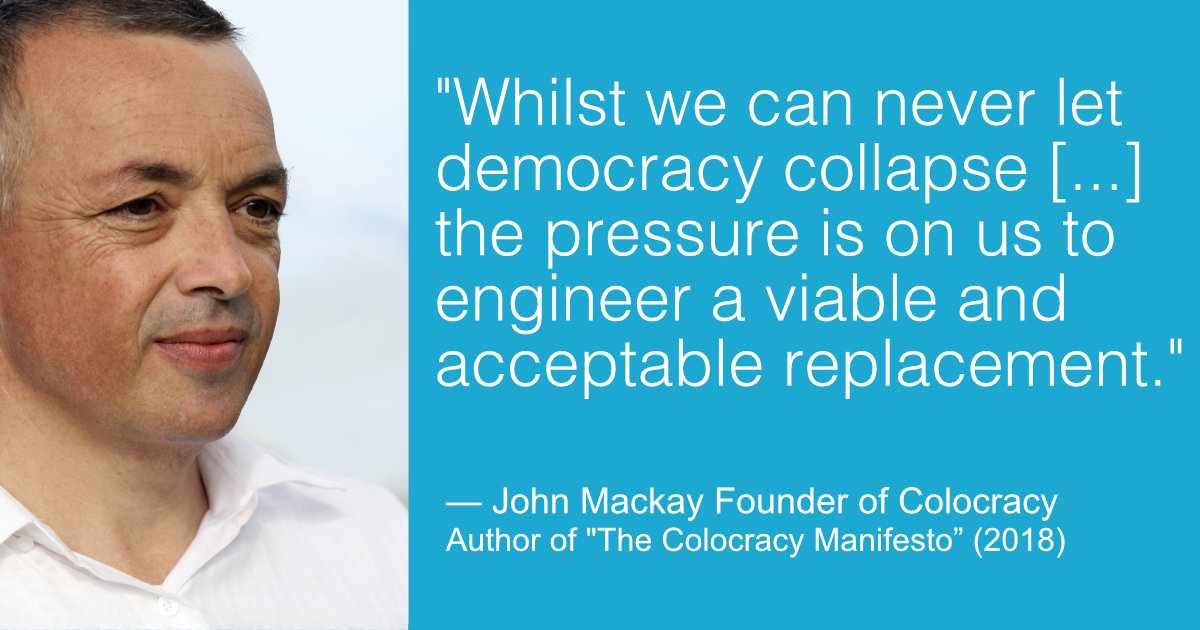
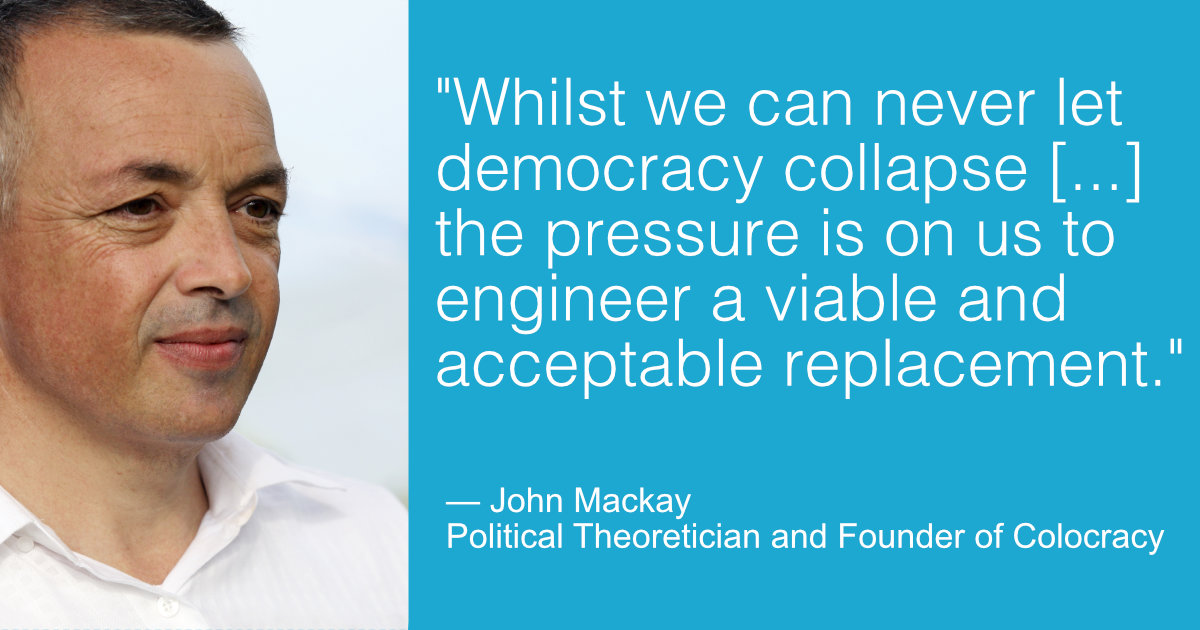
Structured Data Testing Tool Debug

Changed region(s): [[0.37, 0.754, 0.9867, 0.8746]]

diff --git a/profiles/mackay-john/index.html b/profiles/mackay-john/index.html
@@ -13,14 +13,14 @@
   <link rel="stylesheet" href="https://maxcdn.bootstrapcdn.com/bootstrap/4.0.0/css/bootstrap.min.css" integrity="sha384-Gn5384xqQ1aoWXA+058RXPxPg6fy4IWvTNh0E263XmFcJlSAwiGgFAW/dAiS6JXm" crossorigin="anonymous">
 
   <title>Profile: John Mackay</title>
-  <meta name="description" content="John Mackay is the founder and principle architect of the system of colocracy." />
-  <meta name="keywords" content="john mackay,author,founder,colocracy" />
+  <meta name="description" content="Political theorist and founder of colocracy. Author of &quot;For All OF Us: The Colocracy Manifesto.&quot;" />
+  <meta name="keywords" content="john mackay,theorist,author,founder,colocracy" />
 
   <!-- Twitter Card data -->
   <meta name="twitter:card" content="summary">
   <meta name="twitter:site" content="@johnmackay61">
   <meta name="twitter:title" content="John Mackay">
-  <meta name="twitter:description" content="Founder and principle architect of colocracy. Author of 'For All OF Us: The Colocracy Manifesto.'">
+  <meta name="twitter:description" content="Political theorist and founder of colocracy. Author of &quot;For All OF Us: The Colocracy Manifesto.&quot;">
   <meta name="twitter:image" content="https://colocracy.github.io/profiles/images/og-generic-square.jpg">
 
   <!-- Open Graph data -->
@@ -43,11 +43,11 @@
       "postalCode": "11000",
       "streetAddress": "100/55, The ConnectUp3, Soi Rattanthibet 17, Chang Wat Nonthaburi, Thailand, 11000"
     },
-    "affiliation": "Colocracy"
+    "affiliation": "Colocracy",
     "alumniOf": {
     "@type": "CollegeOrUniversity",
     "name": "James Cook Univesity",
-    "url": "https://www.jcu.edu.au/",
+    "url": "https://www.jcu.edu.au/"
     },
     "birthDate": "1961",
     "birthPlace": "NSW, Australia",
@@ -57,24 +57,17 @@
     "Georgia Mackay",
     "Chanisara Aiemcharoen"
     ],
-    "description": "Born in 1961, John Mackay is the founding theoretician of the principles of Colocracy as outlined in his 2018 thesis titled For All Of Us: The Colocracy Manifesto."
+    "description": "Political theorist and founder of colocracy. Author of For All OF Us: The Colocracy Manifesto.",
     "email": "mailto:john.mackay@colocracy.org",
     "familyName": "Mackay",
     "givenName": "John",
     "image": "https://colocracy.github.io/profiles/mackay-john/images/portrait.jpg",
-    "jobTitle": "Founder of Colocracy",
-    "name": "John Mackay"
+    "jobTitle": "Political Theorist",
+    "name": "John Mackay",
     "nationality": [
     "Australia",
     "New Zealand"
     ],
-    "offers": {
-      "name": "For All Of Us: The Colocracy Manifesto",
-      "price": "3.99",
-      "priceCurrency": "USD",
-      "validFrom": "2018-02-01",
-      "url": "https://colocracy.github.io/store/sku-9780648098317/index.html"
-    },
     "parent": [
     "Adelinde Mackay",
     "Peter Mackay"

diff --git a/store/sku-9780648098317/index.html b/store/sku-9780648098317/index.html
@@ -74,7 +74,7 @@
         "offers": {
             "@type": "Offer",
             "availability": "http://schema.org/OnlineOnly",
-            "eligibleQuantity": "1"
+            "eligibleQuantity": "1",
             "price": "3.99",
             "priceCurrency": "USD",
             "url": "https://www.colocracy.org"
@@ -85,7 +85,7 @@
             "email": "mailto:john.mackay@colocracy.org"
         },
         "timeRequired": "1 hour",
-        "typicalAgeRange": "14+",
+        "typicalAgeRange": "14+"
     }
 }
 </script>
